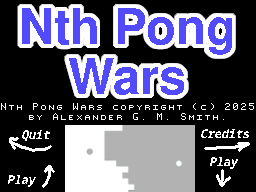
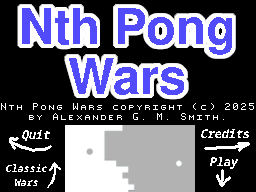
Added TileQuota keyword and moved classic pong wars to own level.
Also ESC key now gets you to the title screen, and other minor changes.

Changed region(s): [[0.0, 0.8438, 0.25, 1.0]]

diff --git a/SourceCode/Common/levels.c b/SourceCode/Common/levels.c
@@ -39,6 +39,10 @@ static uint16_t sVictoryTimeoutFrame = 0;
 /* Frame counter when the current level times out and player 4 (the Fire
    button) is declared the winner.  Zero if the timeout isn't active. */
 
+static bool sFirstTileQuotaKeywordClears = true;
+/* A flag that's set for each level load so we know that all tile quotas
+   need to be cleared the first time we see the keyword. */
+
 
 /* Checks the victory conditions and sets things up for loading the next level
    (depending on which player won).  Returns TRUE if the level was completed.
@@ -685,6 +689,8 @@ bool KeywordBoardTileData(void)
   uint8_t row = 0;
   while (LevelReadAndTrimLine(g_TempBuffer, 255))
   {
+    SoundUpdateIfNeeded();
+
     if (strcasecmp(g_TempBuffer, "END") == 0)
       break; /* End of the tile data. */
     if (g_TempBuffer[0] == '#')
@@ -740,6 +746,44 @@ bool KeywordBoardTileData(void)
 }
 
 
+/* Read a tile type and quota number from the level file.  Set the corresponding
+   quota for that kind of power-up.  If it's the first time, clear all the
+   power-ups.
+*/
+bool KeywordTileQuota(void)
+{
+  if (sFirstTileQuotaKeywordClears)
+  {
+    bzero(g_TileOwnerQuotas, sizeof(g_TileOwnerQuotas));
+    sFirstTileQuotaKeywordClears = false;
+  }
+
+  /* Read the tile type code. */
+  if (!LevelReadWord(g_TempBuffer, 255, ','))
+    return false;
+
+  /* Convert the level file letter to a tile type.  Do nothing fatal for
+     unknown possibly future level codes. */
+  tile_owner tileType;
+  for (tileType = 0; tileType < OWNER_MAX; tileType++)
+  {
+    if (g_TileOwnerLetters[tileType] == g_TempBuffer[0])
+      break;
+  }
+
+  /* Read the quota number and the rest of the line. */
+  if (!LevelReadLine(g_TempBuffer, 255))
+    return false;
+  uint8_t quotaAmount = atoi(g_TempBuffer);
+
+  /* Default unknown tile types ignored. */
+  if (tileType < OWNER_MAX)
+    g_TileOwnerQuotas[tileType] = quotaAmount;
+
+  return true;
+}
+
+
 /******************************************************************************
  * Handle all level keywords.  We have a table of the word and the
  * corresponding function to call.
@@ -769,6 +813,7 @@ static struct KeyWordCallStruct kKeywordFunctionTable[] = {
   {"GameMode", KeywordGameMode},
   {"BoardSize", KeywordBoardSize},
   {"BoardTileData", KeywordBoardTileData},
+  {"TileQuota", KeywordTileQuota},
   {NULL, NULL}
 };
 
@@ -780,8 +825,12 @@ static bool ProcessLevelKeywords(void)
   #define MAX_LEVEL_KEYWORD_LENGTH 32
   char keyWord[MAX_LEVEL_KEYWORD_LENGTH];
 
+  sFirstTileQuotaKeywordClears = true;
+
   while (true)
   {
+    SoundUpdateIfNeeded();
+
     /* Read the next keyword.  Skip leading spaces.  Skip comment lines. */
 
     if (!LevelSkipSpaces())
@@ -821,10 +870,13 @@ static bool ProcessLevelKeywords(void)
     }
     if (pKeywordCall->keyword == NULL)
     { /* Unknown keyword, print a debug message and discard the rest. */
-      strcpy(g_TempBuffer, "Unknown keyword \"");
-      strcat(g_TempBuffer, keyWord);
-      strcat(g_TempBuffer, "\".\n");
-      DebugPrintString(g_TempBuffer);
+      if (keyWord[0] != 0) /* Only debug non-empty keywords. */
+      {
+        strcpy(g_TempBuffer, "Unknown keyword \"");
+        strcat(g_TempBuffer, keyWord);
+        strcat(g_TempBuffer, "\".\n");
+        DebugPrintString(g_TempBuffer);
+      }
       if (!LevelReadAndTrimLine(keyWord, sizeof(keyWord)))
         break; /* End of file while discarding the rest of the line. */
     }

diff --git a/SourceCode/Nabu/main.c b/SourceCode/Nabu/main.c
@@ -202,6 +202,11 @@ static void ProcessKeyboard(void)
         s_KeepRunning = false;
         strcpy(gLevelName, "Quit");
       }
+      else if (letter == 27) /* Escape key, abort and go back to title screen. */
+      {
+        s_KeepRunning = false;
+        strcpy(gLevelName, "TITLE");
+      }
     }
   }
 }
